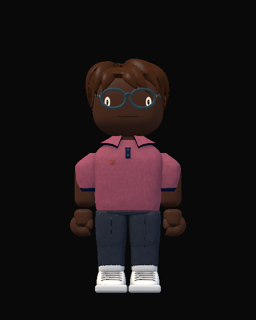
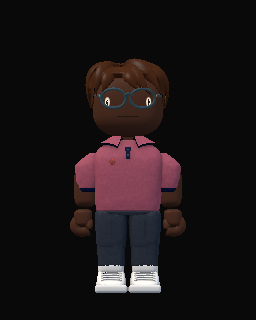
fixing the thumbs

diff --git a/src/cubacadabra/cli.py b/src/cubacadabra/cli.py
@@ -26,7 +26,12 @@ from .local_r2_setup import (
     default_starter_set,
     setup_local_r2,
 )
-from .morph_release import MorphReleaseError, build_morph_release, write_release_sql
+from .morph_release import (
+    MorphReleaseError,
+    build_morph_release,
+    refresh_starter_thumbnails,
+    write_release_sql,
+)
 
 
 DESCRIPTION = "Tools for building and maintaining Cubacadabra projects."
@@ -215,6 +220,11 @@ def build_parser() -> argparse.ArgumentParser:
         action="store_true",
         help="Validate and show uploads without writing R2 objects.",
     )
+    setup_parser.add_argument(
+        "--skip-thumbnails",
+        action="store_true",
+        help="Skip the GPU-backed starter thumbnail refresh (for headless builds).",
+    )
     setup_parser.set_defaults(handler=_run_setup_local)
 
     morph_parser = commands.add_parser(
@@ -232,6 +242,11 @@ def build_parser() -> argparse.ArgumentParser:
         "--output", type=Path, default=None, metavar="DIR",
         help="Generated release directory (default: .cubacadabra/generated/morphs).",
     )
+    morph_build_parser.add_argument(
+        "--skip-thumbnails",
+        action="store_true",
+        help="Skip the GPU-backed starter thumbnail refresh (for headless builds).",
+    )
     morph_build_parser.set_defaults(handler=_run_morph_build)
     morph_publish_parser = morph_commands.add_parser(
         "publish", help="Upload compiled packs, then atomically update production D1."
@@ -241,6 +256,7 @@ def build_parser() -> argparse.ArgumentParser:
     )
     morph_publish_parser.add_argument("--bucket", default="prod")
     morph_publish_parser.add_argument("--dry-run", action="store_true")
+    morph_publish_parser.add_argument("--skip-thumbnails", action="store_true")
     morph_publish_parser.set_defaults(handler=_run_morph_publish)
     morph_rollback_parser = morph_commands.add_parser(
         "rollback", help="Make a previously generated catalog lock active."
@@ -379,7 +395,9 @@ def _run_upload_examples(args: argparse.Namespace) -> int:
 
 def _run_setup_local(args: argparse.Namespace) -> int:
     try:
-        release = build_morph_release(args.starter_set)
+        release, refreshed = _build_release_for_command(
+            args.starter_set, refresh_thumbnails=not args.skip_thumbnails
+        )
         result = setup_local_r2(
             release.runtime_root.parent,
             endpoint=args.endpoint,
@@ -405,27 +423,33 @@ def _run_setup_local(args: argparse.Namespace) -> int:
     print(
         f"{action} {args.bucket}: files={result.files} "
         f"uploaded={result.uploaded} skipped={result.skipped} "
-        f"bytes_uploaded={result.bytes_uploaded} release={release.release_id}"
+        f"bytes_uploaded={result.bytes_uploaded} release={release.release_id} "
+        f"thumbnails={refreshed}"
     )
     return 0
 
 
 def _run_morph_build(args: argparse.Namespace) -> int:
     try:
-        result = build_morph_release(args.starter_set, output=args.output)
+        result, refreshed = _build_release_for_command(
+            args.starter_set, output=args.output,
+            refresh_thumbnails=not args.skip_thumbnails,
+        )
     except (MorphReleaseError, OSError) as error:
         print(f"cubacadabra morph build failed: {error}", file=sys.stderr)
         return 1
     print(
         f"Built Morph release {result.release_id}: assets={result.assets} "
-        f"packs={result.packs} lock={result.lock_path}"
+        f"packs={result.packs} thumbnails={refreshed} lock={result.lock_path}"
     )
     return 0
 
 
 def _run_morph_publish(args: argparse.Namespace) -> int:
     try:
-        release = build_morph_release(args.starter_set)
+        release, _ = _build_release_for_command(
+            args.starter_set, refresh_thumbnails=not args.skip_thumbnails
+        )
         sql_path = write_release_sql(release.lock_path)
         backend = args.starter_set.resolve().parents[1] / "backend"
         packs = sorted(release.runtime_root.rglob("*.morphpack"))
@@ -462,6 +486,22 @@ def _run_morph_publish(args: argparse.Namespace) -> int:
     action = "Would publish" if args.dry_run else "Published"
     print(f"{action} Morph catalog {release.release_id}: packs={release.packs}")
     return 0
+
+
+def _build_release_for_command(
+    starter_set: Path,
+    *,
+    output: Path | None = None,
+    refresh_thumbnails: bool,
+):
+    """Build packs, refresh source thumbnails, then lock their new hashes."""
+    result = build_morph_release(starter_set, output=output)
+    refreshed = 0
+    if refresh_thumbnails:
+        refreshed = refresh_starter_thumbnails(starter_set, result.lock_path)
+        if refreshed:
+            result = build_morph_release(starter_set, output=output)
+    return result, refreshed
 
 
 def _run_morph_rollback(args: argparse.Namespace) -> int:

diff --git a/src/cubacadabra/morph_release.py b/src/cubacadabra/morph_release.py
@@ -24,6 +24,78 @@ class MorphReleaseResult:
     packs: int
 
 
+def refresh_starter_thumbnails(starter_set: Path, lock_path: Path) -> int:
+    """Capture complete starter recipes through the shared GPU renderer.
+
+    Captures are staged until every preset succeeds, so an unavailable GPU or
+    incomplete catalog never leaves a partially refreshed thumbnail set.
+    """
+    root = starter_set.expanduser().resolve()
+    catalog_path = root / "catalog.json"
+    if not catalog_path.is_file():
+        return 0
+    catalog = _read_json(catalog_path)
+    preset_specs = catalog.get("presets", [])
+    if not isinstance(preset_specs, list):
+        raise MorphReleaseError("catalog presets must be a list")
+    targets: list[tuple[Path, str]] = []
+    for spec in preset_specs:
+        if not isinstance(spec, dict) or not isinstance(spec.get("source"), str):
+            raise MorphReleaseError("catalog presets must contain source paths")
+        preset_path = (root / str(spec["source"])).resolve()
+        if not preset_path.is_file() or not preset_path.is_relative_to(root):
+            raise MorphReleaseError(f"catalog references missing preset: {preset_path}")
+        preset = _read_json(preset_path)
+        thumbnail = preset.get("thumbnail")
+        if not thumbnail:
+            continue
+        if not isinstance(thumbnail, str) or Path(thumbnail).is_absolute():
+            raise MorphReleaseError(f"invalid preset thumbnail reference in {preset_path}")
+        target = (preset_path.parent / thumbnail).resolve()
+        if not target.is_relative_to(root) or target.suffix != ".png":
+            raise MorphReleaseError(f"invalid preset thumbnail: {target}")
+        targets.append((target, str(preset["id"]).rsplit("/", 1)[-1].removesuffix(".v1") + ".png"))
+    if not targets:
+        return 0
+
+    rust_root = root.parents[1]
+    with tempfile.TemporaryDirectory(prefix="cubacadabra-thumbnails-") as directory:
+        output = Path(directory)
+        environment = os.environ.copy()
+        environment.update({
+            "CUBA_STARTER_CATALOG": str(lock_path),
+            "CUBA_STARTER_THUMBNAILS": str(output),
+            "CUBA_STARTER_SCALE": "1",
+            "CUBA_STARTER_YAW": "0",
+            "CUBA_STARTER_PITCH": "0",
+            "CUBA_STARTER_POSE": "rest",
+            "CUBA_STARTER_LOD": "near",
+        })
+        command = [
+            "cargo", "test", "--manifest-path", str(rust_root / "rust/Cargo.toml"),
+            "--features", "studio-ui", "capture_starters", "--", "--ignored",
+        ]
+        try:
+            subprocess.run(command, cwd=rust_root, env=environment, check=True,
+                           capture_output=True, text=True)
+        except (OSError, subprocess.CalledProcessError) as error:
+            detail = getattr(error, "stderr", "") or str(error)
+            raise MorphReleaseError(
+                "Could not refresh starter thumbnails with the shared renderer. "
+                "Use --skip-thumbnails on headless machines. " + detail.strip()
+            ) from error
+        staged: list[tuple[Path, bytes]] = []
+        for target, capture_name in targets:
+            capture = output / capture_name
+            if not capture.is_file():
+                raise MorphReleaseError(f"starter thumbnail capture did not produce {capture_name}")
+            staged.append((target, capture.read_bytes()))
+        for target, contents in staged:
+            target.parent.mkdir(parents=True, exist_ok=True)
+            target.write_bytes(contents)
+    return len(targets)
+
+
 def write_release_sql(lock_path: Path, output: Path | None = None, channel: str = "production") -> Path:
     """Turn a generated catalog lock into an idempotent D1 update."""
 

diff --git a/tests/test_morph_release.py b/tests/test_morph_release.py
@@ -8,7 +8,11 @@ import unittest
 from pathlib import Path
 from unittest.mock import patch
 
-from cubacadabra.morph_release import MorphReleaseError, build_morph_release
+from cubacadabra.morph_release import (
+    MorphReleaseError,
+    build_morph_release,
+    refresh_starter_thumbnails,
+)
 
 
 class MorphReleaseTests(unittest.TestCase):
@@ -70,3 +74,26 @@ class MorphReleaseTests(unittest.TestCase):
                 with self.assertRaisesRegex(MorphReleaseError, "unknown preset part"):
                     self.build(root)
             self.assertEqual(lock.read_text(), "previous valid release")
+
+    def test_thumbnail_refresh_stages_gpu_captures_before_replacing_source(self):
+        with tempfile.TemporaryDirectory() as directory:
+            root = Path(directory)
+            self.fixture(root)
+            lock = root / "generated/catalog.lock.json"
+            lock.parent.mkdir()
+            lock.write_text("{}")
+
+            def capture(_command, *, env, **_kwargs):
+                output = Path(env["CUBA_STARTER_THUMBNAILS"])
+                output.mkdir(parents=True, exist_ok=True)
+                (output / "person-17.png").write_bytes(b"new thumbnail")
+                return subprocess.CompletedProcess([], 0)
+
+            with patch("cubacadabra.morph_release.subprocess.run", side_effect=capture) as run:
+                refreshed = refresh_starter_thumbnails(root, lock)
+
+            self.assertEqual(refreshed, 1)
+            self.assertEqual((root / "presets/person.png").read_bytes(), b"new thumbnail")
+            environment = run.call_args.kwargs["env"]
+            self.assertEqual(environment["CUBA_STARTER_SCALE"], "1")
+            self.assertEqual(environment["CUBA_STARTER_LOD"], "near")

diff --git a/starter-set/README.md b/starter-set/README.md
@@ -68,10 +68,14 @@ PYTHONPATH=src python3 -m cubacadabra setup-local
 ```
 
 The build compiles the parts and validates every preset with the shared Rust
-resolver. It writes immutable packs, PNG previews, and `catalog.lock.json`
-under the ignored `.cubacadabra/generated/morphs/` directory. Failed validation
-does not replace the previous lock file. `setup-local` uploads to local R2 and
-installs the release in local D1; no production upload is necessary.
+resolver. On a normal development machine it then captures all starter cards
+through the shared GPU renderer at 256×320, updates `presets/thumbnails/`, and
+rebuilds the lock so the PNG hashes match. It writes immutable packs, PNG
+previews, and `catalog.lock.json` under the ignored
+`.cubacadabra/generated/morphs/` directory. Failed validation does not replace
+the previous lock file. `setup-local` performs the same refresh before uploading
+to local R2 and installing the release in local D1; no production upload is
+necessary. Use `--skip-thumbnails` for a headless build.
 
 Studio fetches the complete paginated catalog and verifies downloaded pack
 sizes and hashes. A starter is displayed only after all its parts are ready.

diff --git a/README.md b/README.md
@@ -125,9 +125,11 @@ cubacadabra setup-local
 
 The command compiles every source manifest with the pinned authoring compiler,
 uploads immutable content-addressed packs, applies local D1 migrations, and
-installs an idempotent catalog release. Use `cubacadabra morph build` to only
-generate the ignored release directory. `--starter-set DIR`, `--endpoint URL`,
-and `--dry-run` remain available.
+installs an idempotent catalog release. Both commands refresh the starter
+thumbnails through the shared GPU renderer and update their content hashes;
+use `--skip-thumbnails` for headless builds. Use `cubacadabra morph build` to
+only generate the ignored release directory. `--starter-set DIR`, `--endpoint
+URL`, and `--dry-run` remain available.
 
 Upload both example games after a change to the engine, web client, or example
 projects. The default target is the local backend at `127.0.0.1:8787`:
